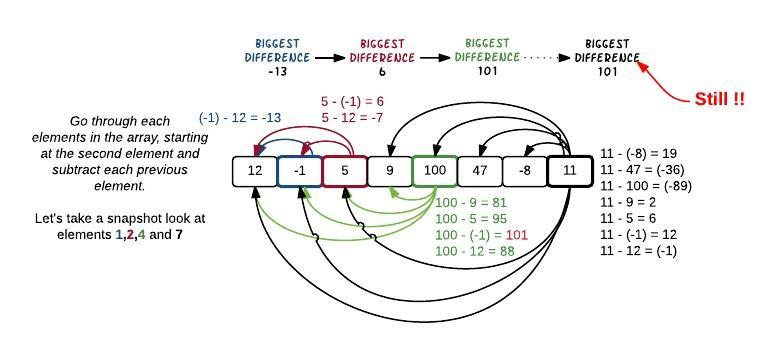
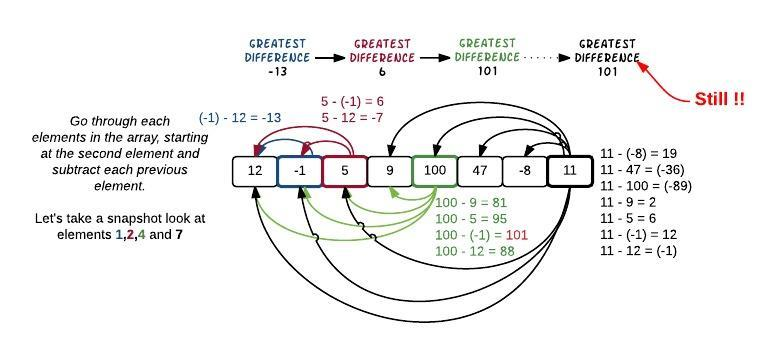
Still fixing bad images

diff --git a/README.md b/README.md
@@ -16,8 +16,10 @@ This method, GreatestDifference(int[] numbers) accepts an array of at least two 
 
 The way the method GreatestDifference(int[] numbers) works is by an algorithm that iterates through each element in the submitted array. 
 
-
+![](https://github.com/reselbob/Demonstrator/blob/master/images/GetGreatestDifference-01.jpeg?raw=true)
 During iteration, the code traverses by through elements previous the current element in iteration. The code subtracts a previous element from the current "element of interest" to produce a difference. That difference is compared to last GreatDifference discovered. (GreatestDifference is a value global to the method.) If this new difference is larger than the current GreatestDifference, the new value is assigned to GreatDifference.
+
+![](https://github.com/reselbob/Demonstrator/blob/master/images/GetGreatestDifference-02.jpeg?raw=true)
 
 The GreatestDifference that is in force, after all the elements in the submitted array have be examined is the value returned by the method.
 
